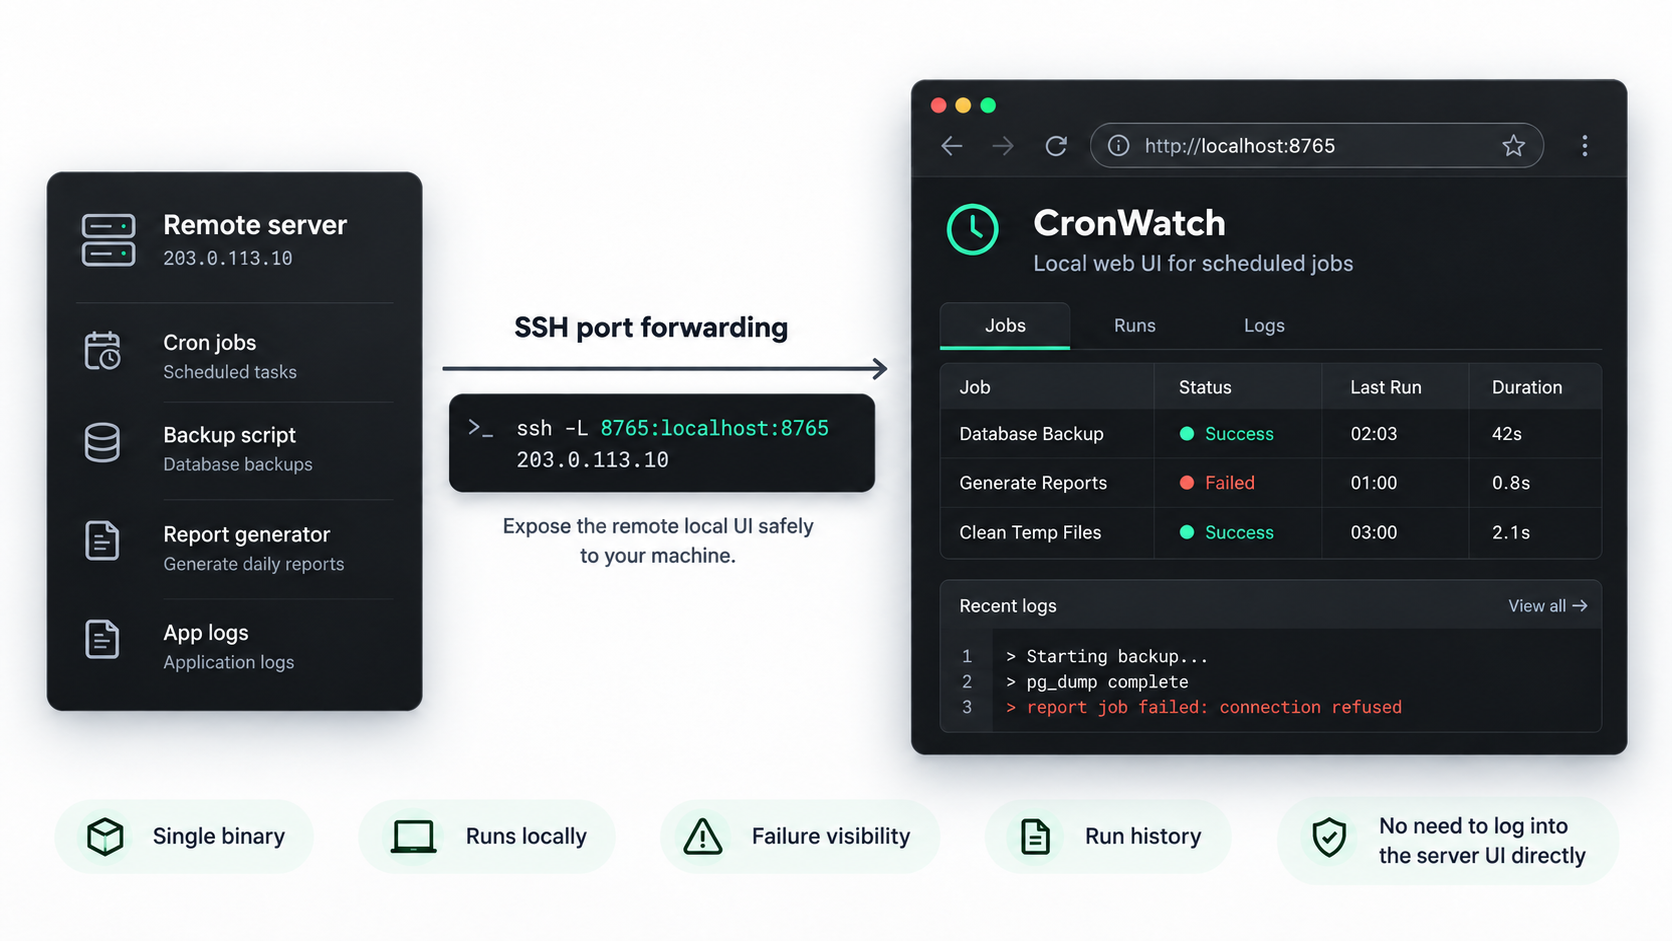
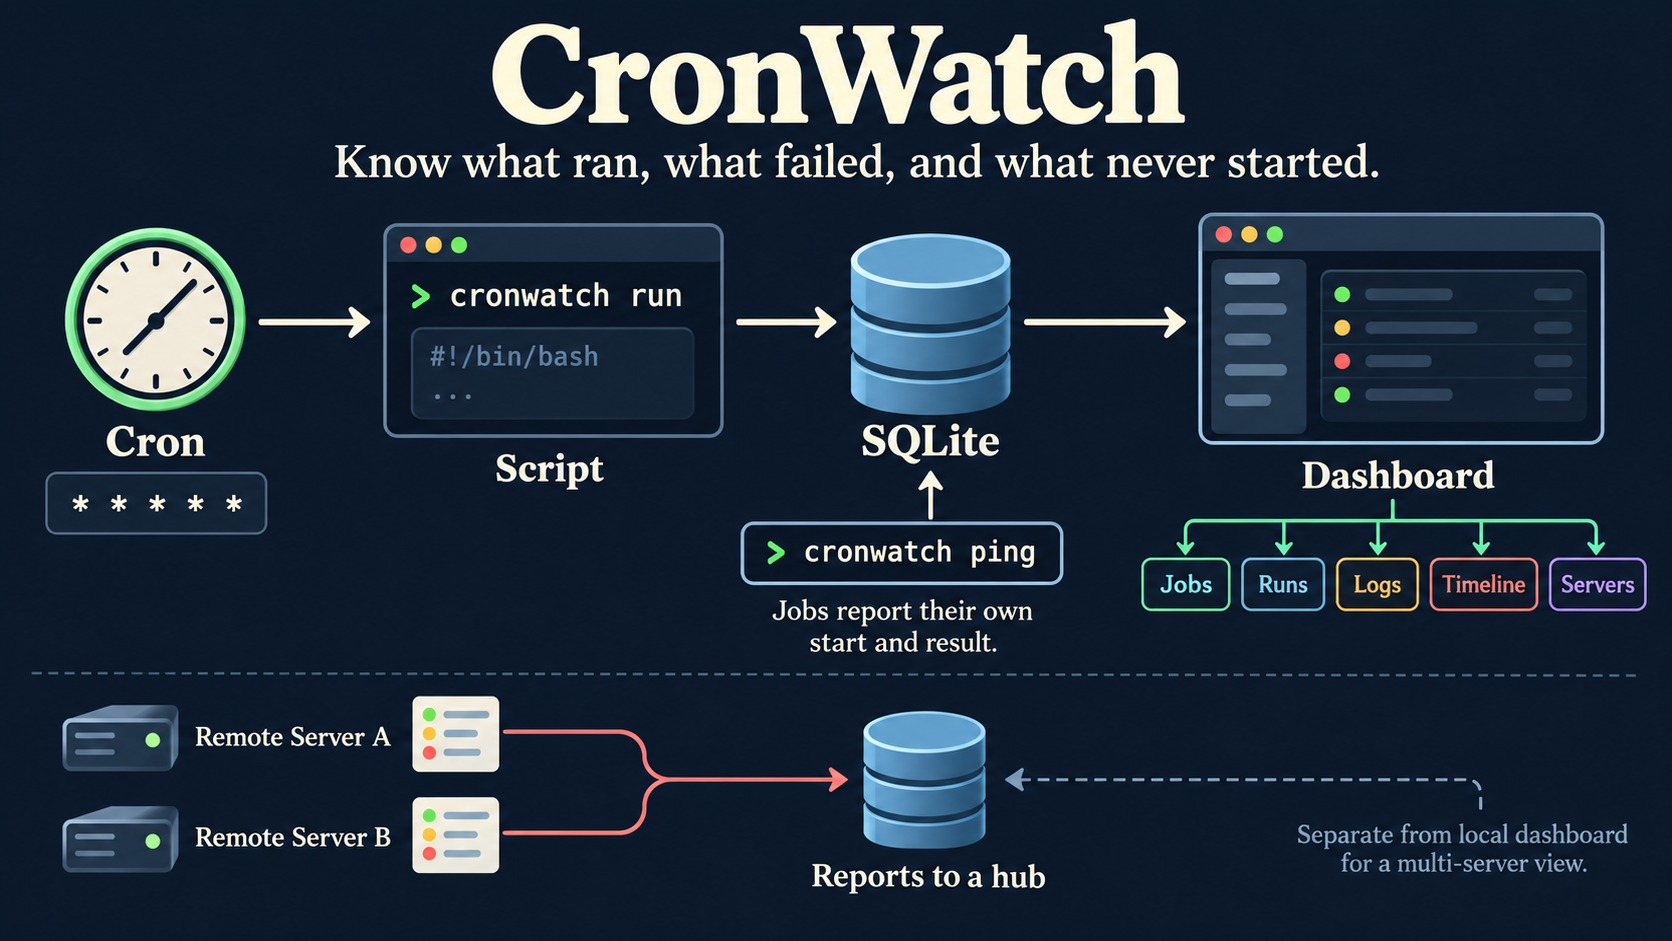
docs: add command map and refresh product overview

diff --git a/README.md b/README.md
@@ -5,15 +5,24 @@
 CronWatch wraps scheduled commands and records their results in a local SQLite
 database. A small web dashboard shows job status, run history, duration, and
 captured logs. It ships as one Go binary and needs no account or daemon to
-record runs.
+record runs. For several servers, each can send a job summary to a hub while
+keeping its full run history and logs locally.
 
-![CronWatch records cron jobs on a remote server; an SSH tunnel (ssh -L 8765:localhost:8765) brings its local dashboard to your browser at localhost:8765, showing each job's status, last run, duration, and logs.](docs/images/cronwatch-overview.png)
+![Cron triggers a script through cronwatch run, which records results in local SQLite storage for the dashboard. Jobs that cannot be wrapped report starts and results with cronwatch ping. The dashboard has Jobs, Runs, Logs, Timeline and Servers views; remote servers can send summaries to a hub.](docs/images/cronwatch-overview.png)
 
-[Install](#install) · [Quick start](#quick-start) · [CLI](#cli) · [Development](#development)
+[Install](#install) · [Quick start](#quick-start) · [Command map](#command-map) · [CLI](#cli) · [Multiple servers](#multiple-servers) · [Development](#development)
+
+Cron decides when to start your work. `cronwatch run` wraps the command and
+records what happened; `cronwatch ping` lets a script report its own start
+and result. `cronwatch serve` opens the read-only dashboard and checks for
+missed starts, overdue pings and alerts waiting for delivery. Run jobs and
+the dashboard as the same user, or point them at the same data directory.
 
 ## Highlights
 
 - **Drop-in command wrapper.** Add `cronwatch run` to an existing cron entry.
+- **Guided setup for existing jobs.** `cronwatch sync --wrap` previews the
+  changes; `--apply` installs them after saving a backup.
 - **Useful failure detail.** Capture stdout, stderr, exit codes, and duration.
 - **Works here, fails in cron?** Each run records its environment, so
   `cronwatch envdiff` shows what cron's `PATH`, shell, or directory lacks, and
@@ -26,6 +35,9 @@ record runs.
   failing or recovers, or let cron email you a daily `cronwatch digest`.
 - **Local by default.** SQLite storage and a dashboard bound to
   `127.0.0.1:8765`; SSH forwarding covers remote servers.
+- **Several servers in one view.** Authenticated reports feed a hub's
+  **Servers** tab, with stale reports clearly marked. Full logs stay on
+  each server.
 - **Single binary.** HTML, CSS, JavaScript, and database migrations are embedded.
 
 ## Install
@@ -178,6 +190,15 @@ command's output through:
 The cron entry and dashboard must run under the same user to see the same
 database. A user-level systemd service example is in
 [`examples/cronwatch.service`](examples/cronwatch.service).
+
+## Command map
+
+This map explains every command and how to navigate the dashboard. Use it to
+choose where to start, then follow the [CLI reference](#cli) for examples
+and flags. [Open the full-size image](docs/images/cronwatch-command-map.png)
+to read the details.
+
+![CronWatch's complete command map: record jobs with run, ping and sync; inspect and investigate with jobs, runs, envdiff, try, crontab-history and doctor; operate with serve, digest, check, pause, resume, archive, prune and timers; connect servers with hosts and report; find help with version and help. Dashboard navigation covers Jobs, Runs, Logs, Timeline and Servers.](docs/images/cronwatch-command-map.png)
 
 ## CLI
 
